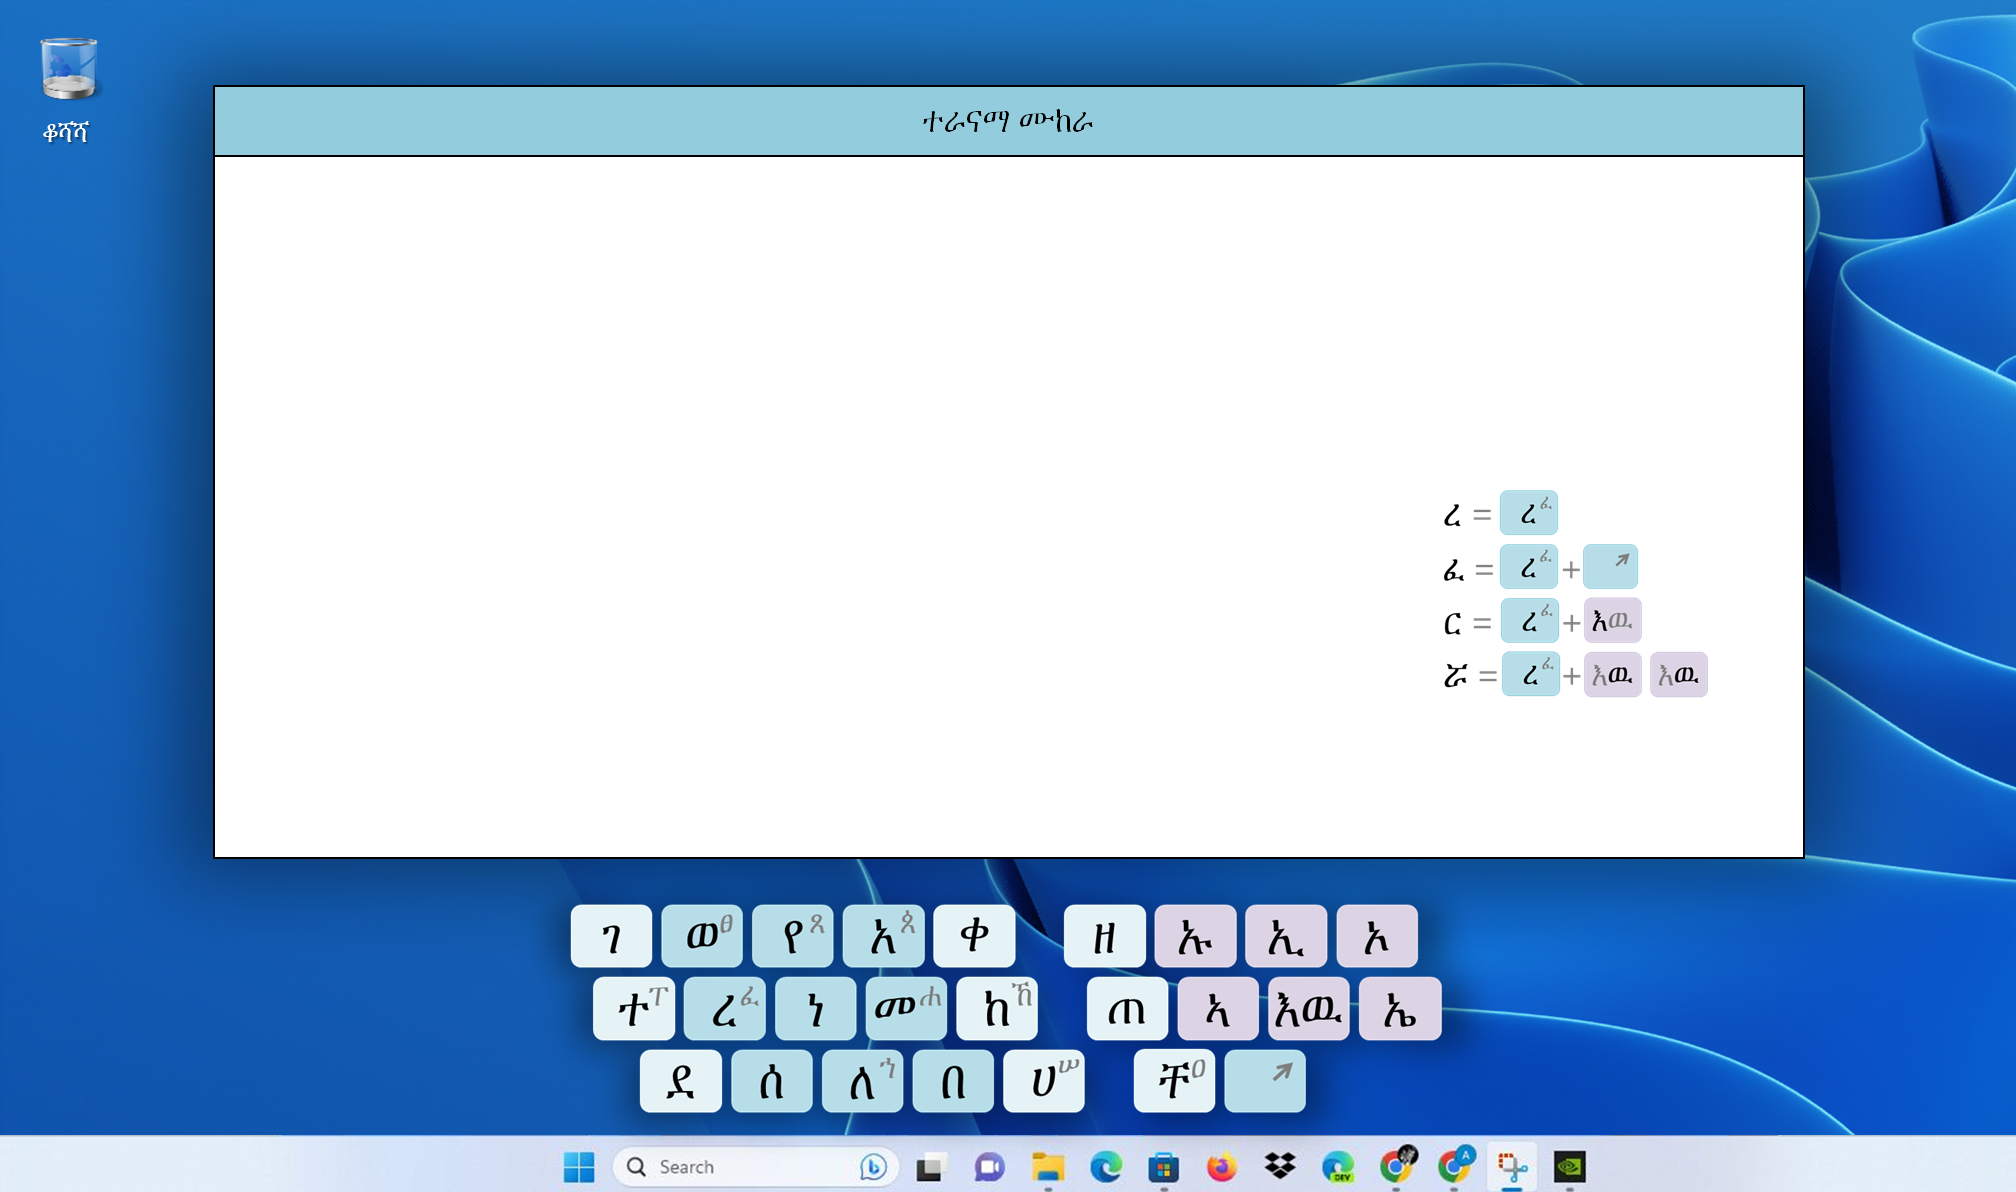
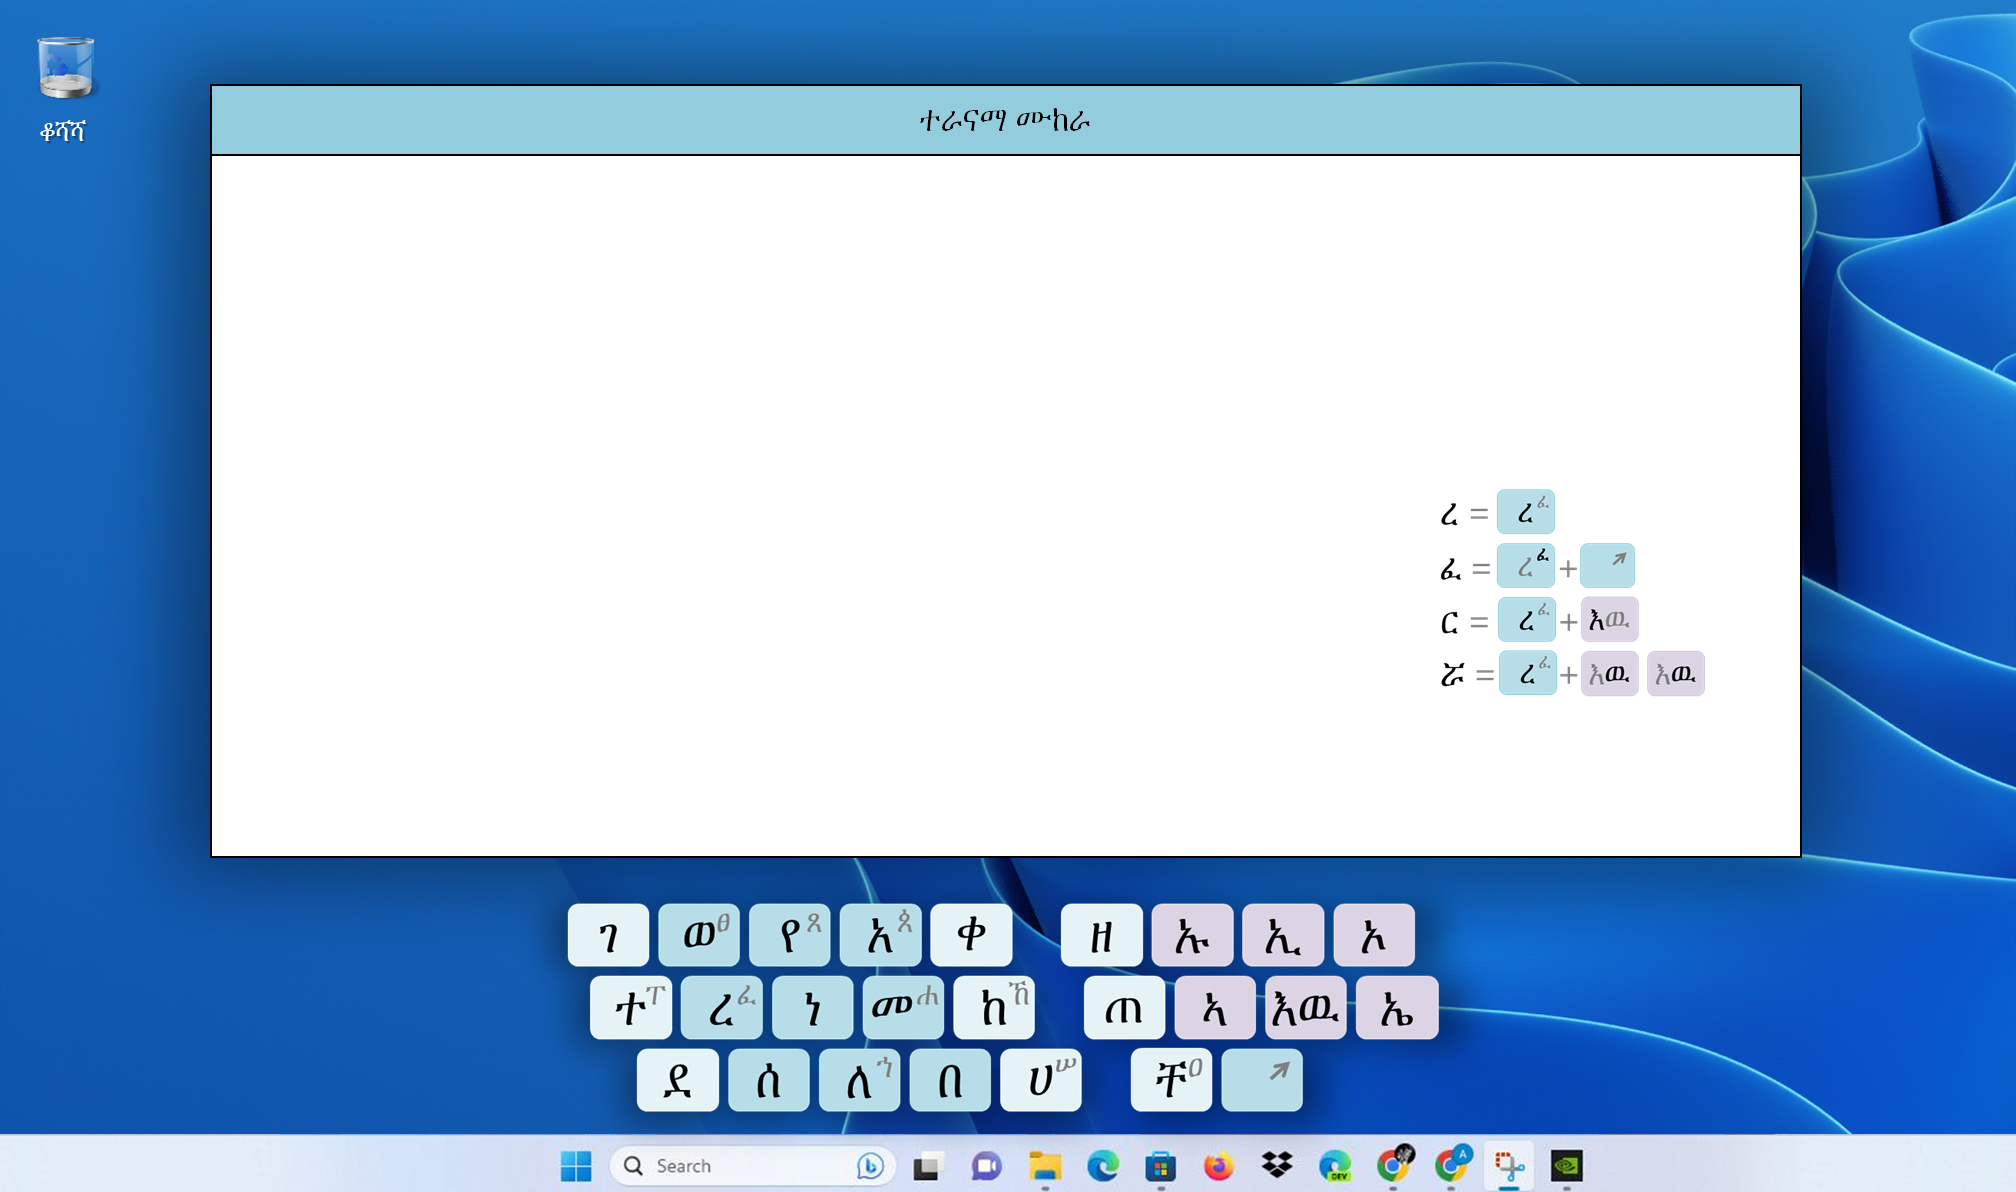
Add files via upload

diff --git a/teranama.html b/teranama.html
@@ -418,14 +418,14 @@ window.addEventListener('resize', fit);
 const kb = document.getElementById('bgwrap');
 const keyPos = {
   // 1행
-  KeyQ:{x:309,y:476}, KeyW:{x:356,y:476}, KeyE:{x:403,y:476}, KeyR:{x:450,y:476},
-  KeyT:{x:496,y:476}, KeyY:{x:563,y:476}, KeyU:{x:610,y:476}, KeyI:{x:656,y:476}, KeyO:{x:703,y:476},
+  KeyQ:{x:309,y:476}, KeyW:{x:356,y:476}, KeyE:{x:402,y:476}, KeyR:{x:448,y:476},
+  KeyT:{x:494,y:476}, KeyY:{x:561,y:476}, KeyU:{x:607,y:476}, KeyI:{x:652,y:476}, KeyO:{x:698,y:476},
   // 2행
   KeyA:{x:320,y:512}, KeyS:{x:367,y:512}, KeyD:{x:413,y:512}, KeyF:{x:460,y:512},
-  KeyG:{x:506,y:512}, KeyH:{x:573,y:512}, KeyJ:{x:620,y:512}, KeyK:{x:667,y:512}, KeyL:{x:713,y:512},
+  KeyG:{x:506,y:512}, KeyH:{x:572,y:512}, KeyJ:{x:618,y:512}, KeyK:{x:664,y:512}, KeyL:{x:709,y:512},
   // 3행
-  KeyZ:{x:345,y:549}, KeyX:{x:392,y:549}, KeyC:{x:439,y:549}, KeyV:{x:486,y:549},
-  KeyB:{x:532,y:549}, KeyN:{x:599,y:549}, KeyM:{x:646,y:549},
+  KeyZ:{x:345,y:549}, KeyX:{x:392,y:549}, KeyC:{x:438,y:549}, KeyV:{x:484,y:549},
+  KeyB:{x:529,y:549}, KeyN:{x:595,y:549}, KeyM:{x:641,y:549},
 };
 
 function flashAt(x,y){
